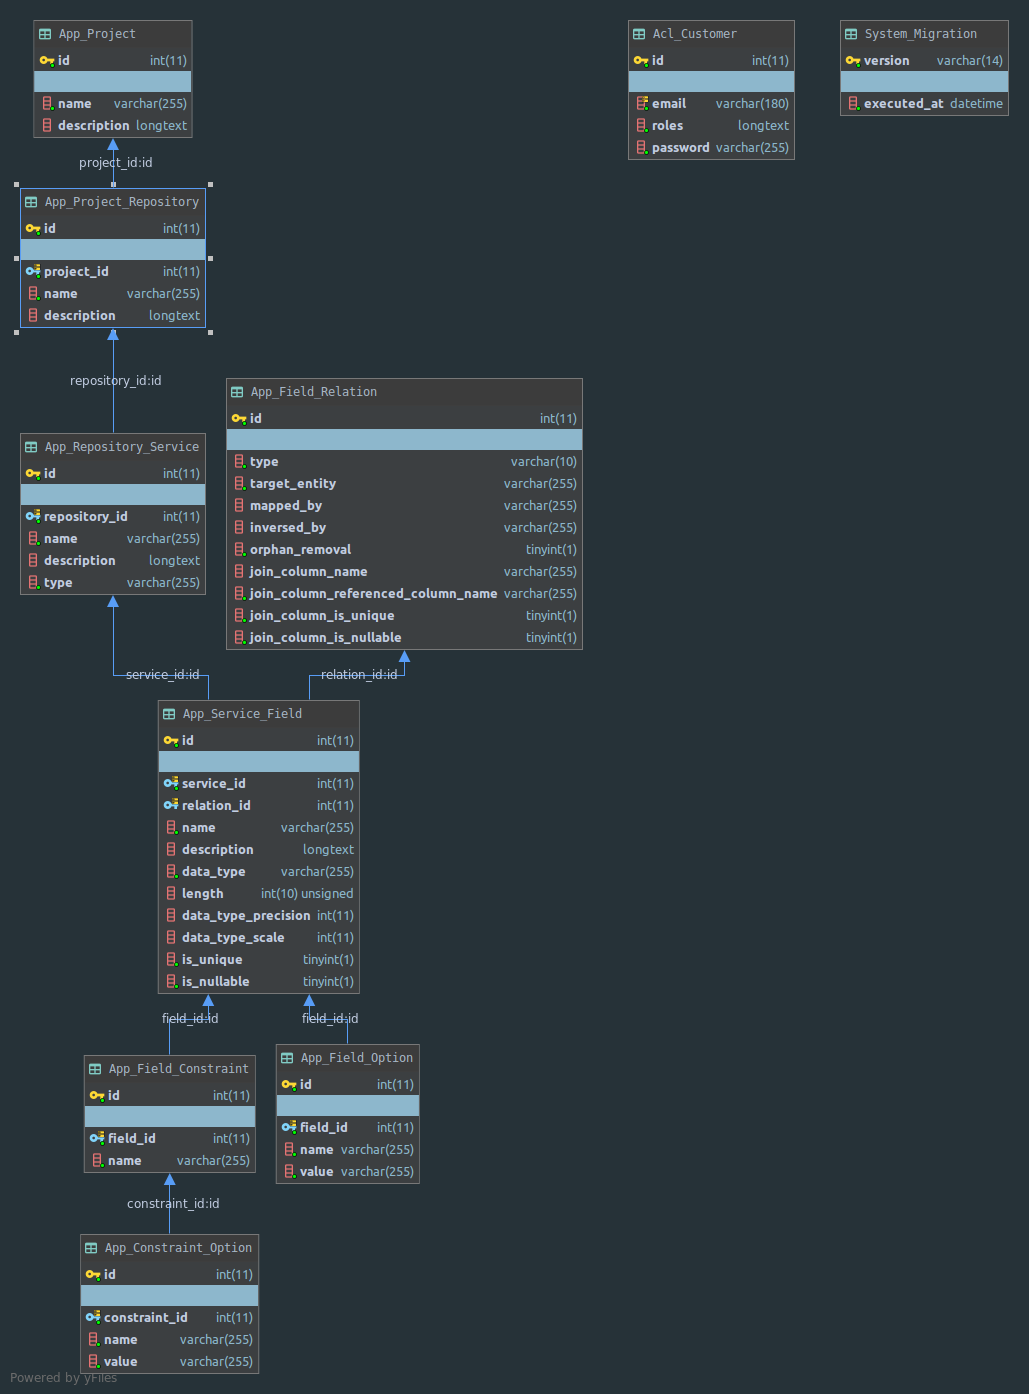
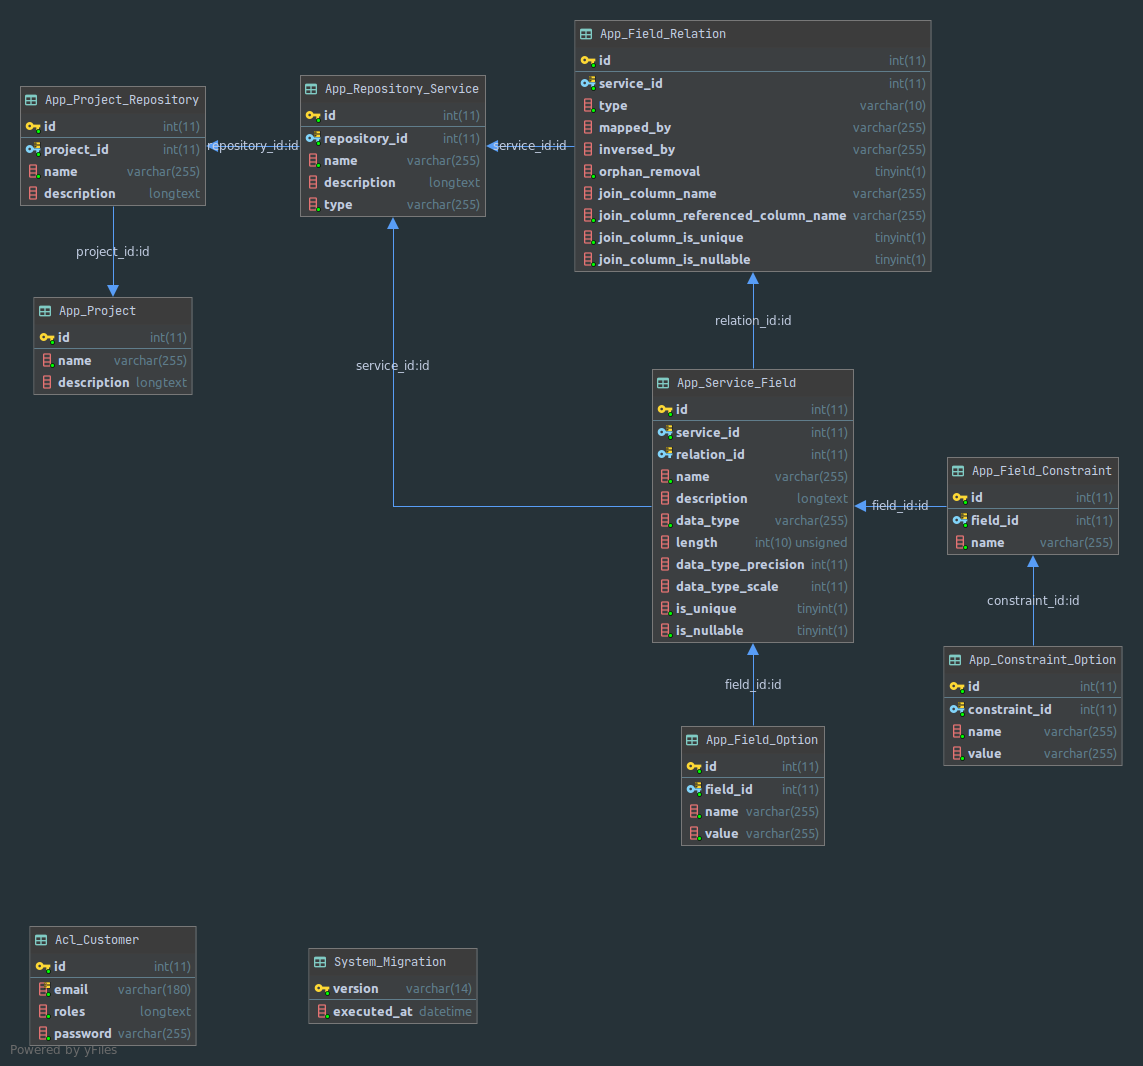
kicked targetEntity attribute in field relations and added a corresponding service relation. This closes #35.

diff --git a/src/App/Migrations/Version20200730201338.php b/src/App/Migrations/Version20200730201338.php
@@ -1,0 +1,67 @@
+<?php
+
+declare(strict_types=1);
+
+namespace DoctrineMigrations;
+
+use Doctrine\DBAL\Schema\Schema;
+use Doctrine\Migrations\AbstractMigration;
+
+/**
+ * Auto-generated Migration: Please modify to your needs!
+ */
+final class Version20200730201338 extends AbstractMigration
+{
+    public function getDescription() : string
+    {
+        return '';
+    }
+
+    public function up(Schema $schema) : void
+    {
+        // this up() migration is auto-generated, please modify it to your needs
+        $this->abortIf($this->connection->getDatabasePlatform()->getName() !== 'mysql', 'Migration can only be executed safely on \'mysql\'.');
+
+        $this->addSql('CREATE TABLE App_Field_Constraint (id INT AUTO_INCREMENT NOT NULL, field_id INT NOT NULL, name VARCHAR(255) NOT NULL, INDEX IDX_E2622E4D443707B0 (field_id), PRIMARY KEY(id)) DEFAULT CHARACTER SET utf8mb4 COLLATE `utf8mb4_unicode_ci` ENGINE = InnoDB');
+        $this->addSql('CREATE TABLE App_Constraint_Option (id INT AUTO_INCREMENT NOT NULL, constraint_id INT NOT NULL, name VARCHAR(255) NOT NULL, value VARCHAR(255) NOT NULL, INDEX IDX_F40CF123E3087FFC (constraint_id), PRIMARY KEY(id)) DEFAULT CHARACTER SET utf8mb4 COLLATE `utf8mb4_unicode_ci` ENGINE = InnoDB');
+        $this->addSql('CREATE TABLE App_Repository_Service (id INT AUTO_INCREMENT NOT NULL, repository_id INT NOT NULL, name VARCHAR(255) NOT NULL, description LONGTEXT DEFAULT NULL, type VARCHAR(255) DEFAULT \'list\' NOT NULL, INDEX IDX_3A0A7CC450C9D4F7 (repository_id), PRIMARY KEY(id)) DEFAULT CHARACTER SET utf8mb4 COLLATE `utf8mb4_unicode_ci` ENGINE = InnoDB');
+        $this->addSql('CREATE TABLE App_Field_Option (id INT AUTO_INCREMENT NOT NULL, field_id INT NOT NULL, name VARCHAR(255) NOT NULL, value VARCHAR(255) NOT NULL, INDEX IDX_BAEE3380443707B0 (field_id), PRIMARY KEY(id)) DEFAULT CHARACTER SET utf8mb4 COLLATE `utf8mb4_unicode_ci` ENGINE = InnoDB');
+        $this->addSql('CREATE TABLE App_Project_Repository (id INT AUTO_INCREMENT NOT NULL, project_id INT NOT NULL, name VARCHAR(255) NOT NULL, description LONGTEXT DEFAULT NULL, INDEX IDX_BECDCEA4166D1F9C (project_id), PRIMARY KEY(id)) DEFAULT CHARACTER SET utf8mb4 COLLATE `utf8mb4_unicode_ci` ENGINE = InnoDB');
+        $this->addSql('CREATE TABLE Acl_Customer (id INT AUTO_INCREMENT NOT NULL, email VARCHAR(180) NOT NULL, roles LONGTEXT NOT NULL COMMENT \'(DC2Type:json)\', password VARCHAR(255) NOT NULL, UNIQUE INDEX UNIQ_627894A6E7927C74 (email), PRIMARY KEY(id)) DEFAULT CHARACTER SET utf8mb4 COLLATE `utf8mb4_unicode_ci` ENGINE = InnoDB');
+        $this->addSql('CREATE TABLE App_Field_Relation (id INT AUTO_INCREMENT NOT NULL, service_id INT NOT NULL, type VARCHAR(10) DEFAULT \'OneToMany\' NOT NULL, mapped_by VARCHAR(255) DEFAULT NULL, inversed_by VARCHAR(255) DEFAULT NULL, orphan_removal TINYINT(1) DEFAULT \'0\' NOT NULL, join_column_name VARCHAR(255) DEFAULT NULL, join_column_referenced_column_name VARCHAR(255) DEFAULT \'id\' NOT NULL, join_column_is_unique TINYINT(1) DEFAULT \'0\' NOT NULL, join_column_is_nullable TINYINT(1) DEFAULT \'1\' NOT NULL, INDEX IDX_21FF0C4ED5CA9E6 (service_id), PRIMARY KEY(id)) DEFAULT CHARACTER SET utf8mb4 COLLATE `utf8mb4_unicode_ci` ENGINE = InnoDB');
+        $this->addSql('CREATE TABLE App_Project (id INT AUTO_INCREMENT NOT NULL, name VARCHAR(255) NOT NULL, description LONGTEXT DEFAULT NULL, PRIMARY KEY(id)) DEFAULT CHARACTER SET utf8mb4 COLLATE `utf8mb4_unicode_ci` ENGINE = InnoDB');
+        $this->addSql('CREATE TABLE App_Service_Field (id INT AUTO_INCREMENT NOT NULL, service_id INT NOT NULL, relation_id INT DEFAULT NULL, name VARCHAR(255) NOT NULL, description LONGTEXT DEFAULT NULL, data_type VARCHAR(255) DEFAULT \'string\' NOT NULL, length INT UNSIGNED DEFAULT NULL, data_type_precision INT DEFAULT NULL, data_type_scale INT DEFAULT NULL, is_unique TINYINT(1) DEFAULT \'0\' NOT NULL, is_nullable TINYINT(1) DEFAULT \'0\' NOT NULL, INDEX IDX_34E6C318ED5CA9E6 (service_id), UNIQUE INDEX UNIQ_34E6C3183256915B (relation_id), PRIMARY KEY(id)) DEFAULT CHARACTER SET utf8mb4 COLLATE `utf8mb4_unicode_ci` ENGINE = InnoDB');
+        $this->addSql('ALTER TABLE App_Field_Constraint ADD CONSTRAINT FK_E2622E4D443707B0 FOREIGN KEY (field_id) REFERENCES App_Service_Field (id)');
+        $this->addSql('ALTER TABLE App_Constraint_Option ADD CONSTRAINT FK_F40CF123E3087FFC FOREIGN KEY (constraint_id) REFERENCES App_Field_Constraint (id)');
+        $this->addSql('ALTER TABLE App_Repository_Service ADD CONSTRAINT FK_3A0A7CC450C9D4F7 FOREIGN KEY (repository_id) REFERENCES App_Project_Repository (id)');
+        $this->addSql('ALTER TABLE App_Field_Option ADD CONSTRAINT FK_BAEE3380443707B0 FOREIGN KEY (field_id) REFERENCES App_Service_Field (id)');
+        $this->addSql('ALTER TABLE App_Project_Repository ADD CONSTRAINT FK_BECDCEA4166D1F9C FOREIGN KEY (project_id) REFERENCES App_Project (id)');
+        $this->addSql('ALTER TABLE App_Field_Relation ADD CONSTRAINT FK_21FF0C4ED5CA9E6 FOREIGN KEY (service_id) REFERENCES App_Repository_Service (id)');
+        $this->addSql('ALTER TABLE App_Service_Field ADD CONSTRAINT FK_34E6C318ED5CA9E6 FOREIGN KEY (service_id) REFERENCES App_Repository_Service (id)');
+        $this->addSql('ALTER TABLE App_Service_Field ADD CONSTRAINT FK_34E6C3183256915B FOREIGN KEY (relation_id) REFERENCES App_Field_Relation (id)');
+    }
+
+    public function down(Schema $schema) : void
+    {
+        // this down() migration is auto-generated, please modify it to your needs
+        $this->abortIf($this->connection->getDatabasePlatform()->getName() !== 'mysql', 'Migration can only be executed safely on \'mysql\'.');
+
+        $this->addSql('ALTER TABLE App_Constraint_Option DROP FOREIGN KEY FK_F40CF123E3087FFC');
+        $this->addSql('ALTER TABLE App_Field_Relation DROP FOREIGN KEY FK_21FF0C4ED5CA9E6');
+        $this->addSql('ALTER TABLE App_Service_Field DROP FOREIGN KEY FK_34E6C318ED5CA9E6');
+        $this->addSql('ALTER TABLE App_Repository_Service DROP FOREIGN KEY FK_3A0A7CC450C9D4F7');
+        $this->addSql('ALTER TABLE App_Service_Field DROP FOREIGN KEY FK_34E6C3183256915B');
+        $this->addSql('ALTER TABLE App_Project_Repository DROP FOREIGN KEY FK_BECDCEA4166D1F9C');
+        $this->addSql('ALTER TABLE App_Field_Constraint DROP FOREIGN KEY FK_E2622E4D443707B0');
+        $this->addSql('ALTER TABLE App_Field_Option DROP FOREIGN KEY FK_BAEE3380443707B0');
+        $this->addSql('DROP TABLE App_Field_Constraint');
+        $this->addSql('DROP TABLE App_Constraint_Option');
+        $this->addSql('DROP TABLE App_Repository_Service');
+        $this->addSql('DROP TABLE App_Field_Option');
+        $this->addSql('DROP TABLE App_Project_Repository');
+        $this->addSql('DROP TABLE Acl_Customer');
+        $this->addSql('DROP TABLE App_Field_Relation');
+        $this->addSql('DROP TABLE App_Project');
+        $this->addSql('DROP TABLE App_Service_Field');
+    }
+}

diff --git a/src/App/Entity/Relation.php b/src/App/Entity/Relation.php
@@ -64,12 +64,6 @@ class Relation
     private $type = EntityRelation::ONE_TO_MANY;
 
     /**
-     * @ORM\Column(type="string", length=255)
-     * @Groups("relation")
-     */
-    private $targetEntity;
-
-    /**
      * @ORM\Column(type="string", length=255, nullable=true)
      * @Groups("relation")
      */
@@ -119,6 +113,15 @@ class Relation
      */
     private $field;
 
+    /**
+     * @ORM\ManyToOne(targetEntity=Service::class, inversedBy="relations")
+     * @ORM\JoinColumn(nullable=false)
+     * @Assert\Valid
+     * @MaxDepth(1)
+     * @Groups("relation")
+     */
+    private $service;
+
     public function getId(): ?int
     {
         return $this->id;
@@ -136,18 +139,6 @@ class Relation
         }
 
         $this->type = $type;
-
-        return $this;
-    }
-
-    public function getTargetEntity(): ?string
-    {
-        return $this->targetEntity;
-    }
-
-    public function setTargetEntity(string $targetEntity): self
-    {
-        $this->targetEntity = $targetEntity;
 
         return $this;
     }
@@ -184,24 +175,6 @@ class Relation
     public function setOrphanRemoval(bool $orphanRemoval): self
     {
         $this->orphanRemoval = $orphanRemoval;
-
-        return $this;
-    }
-
-    public function getfield(): ?Field
-    {
-        return $this->field;
-    }
-
-    public function setfield(?Field $field): self
-    {
-        $this->field = $field;
-
-        // set (or unset) the owning side of the relation if necessary
-        $newRelation = $field === null ? null : $this;
-        if ($newRelation !== $field->getRelation()) {
-            $field->setRelation($newRelation);
-        }
 
         return $this;
     }
@@ -250,6 +223,36 @@ class Relation
     public function setJoinColumnIsNullable(bool $joinColumnIsNullable): self
     {
         $this->joinColumnIsNullable = $joinColumnIsNullable;
+
+        return $this;
+    }
+
+    public function getfield(): ?Field
+    {
+        return $this->field;
+    }
+
+    public function setfield(?Field $field): self
+    {
+        $this->field = $field;
+
+        // set (or unset) the owning side of the relation if necessary
+        $newRelation = $field === null ? null : $this;
+        if ($newRelation !== $field->getRelation()) {
+            $field->setRelation($newRelation);
+        }
+
+        return $this;
+    }
+
+    public function getService(): ?Service
+    {
+        return $this->service;
+    }
+
+    public function setService(?Service $service): self
+    {
+        $this->service = $service;
 
         return $this;
     }

diff --git a/src/App/Entity/Service.php b/src/App/Entity/Service.php
@@ -114,9 +114,15 @@ class Service
      */
     private $fields;
 
+    /**
+     * @ORM\OneToMany(targetEntity=Relation::class, mappedBy="service", orphanRemoval=true)
+     */
+    private $relations;
+
     public function __construct()
     {
         $this->fields = new ArrayCollection();
+        $this->relations = new ArrayCollection();
     }
 
     public function getId(): ?int
@@ -198,6 +204,37 @@ class Service
             // set the owning side to null (unless already changed)
             if ($field->getService() === $this) {
                 $field->setService(null);
+            }
+        }
+
+        return $this;
+    }
+
+    /**
+     * @return Collection|Relation[]
+     */
+    public function getRelations(): Collection
+    {
+        return $this->relations;
+    }
+
+    public function addRelation(Relation $relation): self
+    {
+        if (!$this->relations->contains($relation)) {
+            $this->relations[] = $relation;
+            $relation->setService($this);
+        }
+
+        return $this;
+    }
+
+    public function removeRelation(Relation $relation): self
+    {
+        if ($this->relations->contains($relation)) {
+            $this->relations->removeElement($relation);
+            // set the owning side to null (unless already changed)
+            if ($relation->getService() === $this) {
+                $relation->setService(null);
             }
         }
 

diff --git a/tests/Entity/RelationTest.php b/tests/Entity/RelationTest.php
@@ -58,17 +58,6 @@ class RelationTest extends TestCase
         $this->object->setType('NIL');
     }
 
-    public function testTargetEntityGettable()
-    {
-        $this->assertNull($this->object->getTargetEntity());
-    }
-
-    public function testTargetEntitySettable()
-    {
-        $this->object->setTargetEntity('target');
-        $this->assertEquals('target', $this->object->getTargetEntity());
-    }
-
     public function testMappedByGettable()
     {
         $this->assertNull($this->object->getMappedBy());

diff --git a/src/App/Service/Builder.php b/src/App/Service/Builder.php
@@ -145,7 +145,7 @@ class Builder
         $relation = $field->getRelation();
         $relationType = $relation->getType();
         $owningClass = self::ENTITY_NAMESPACE.$field->getService()->getName();
-        $inverseClass = self::ENTITY_NAMESPACE.$relation->getTargetEntity();
+        $inverseClass = self::ENTITY_NAMESPACE.$relation->getService()->getName();
 
         $entityRelation = new EntityRelation($relationType, $owningClass, $inverseClass);
         $entityRelation->setOwningProperty($field->getName());

diff --git a/CHANGELOG.md b/CHANGELOG.md
@@ -13,6 +13,7 @@ and this project adheres to [Semantic Versioning](http://semver.org/spec/v2.0.0.
 - Introduced standard sets of serialized and deserialized object attributes for some entities
 - Revised documentation and wiki
 - Redesigned serialization groups
+- targetEntity attribute in field relations is now a service relation
 
 ## [1.3.0] - 2020-03-28
 
